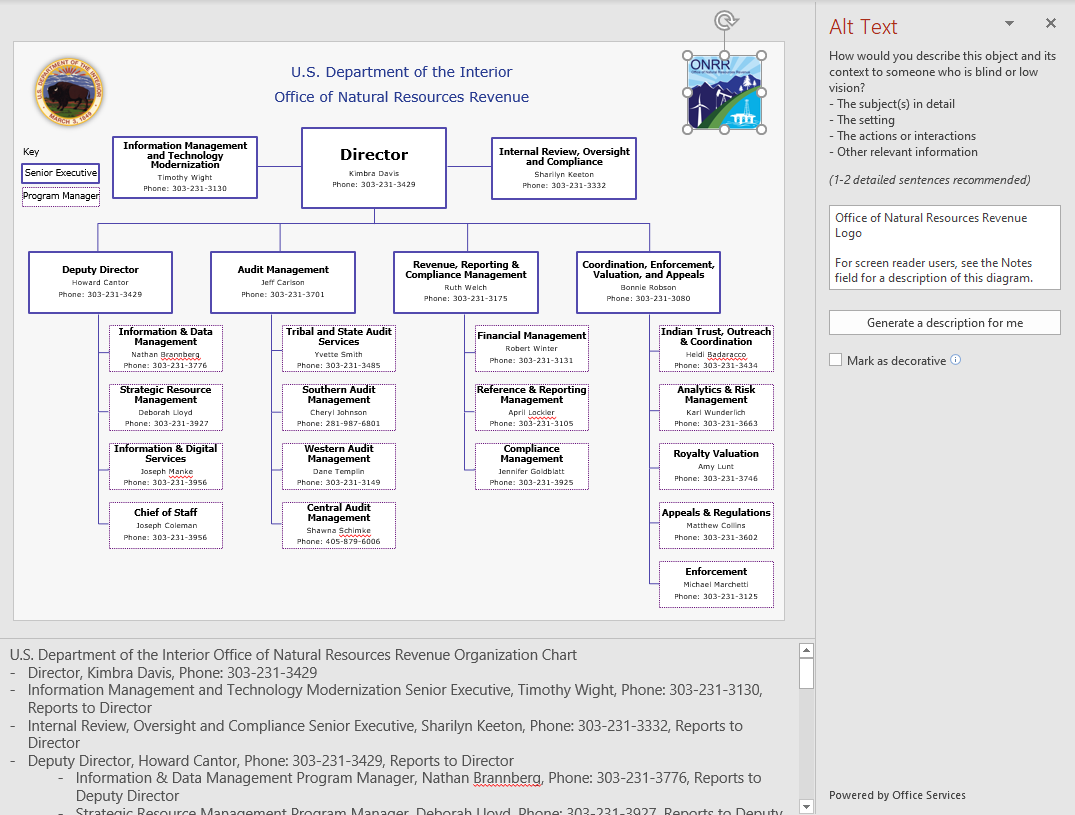
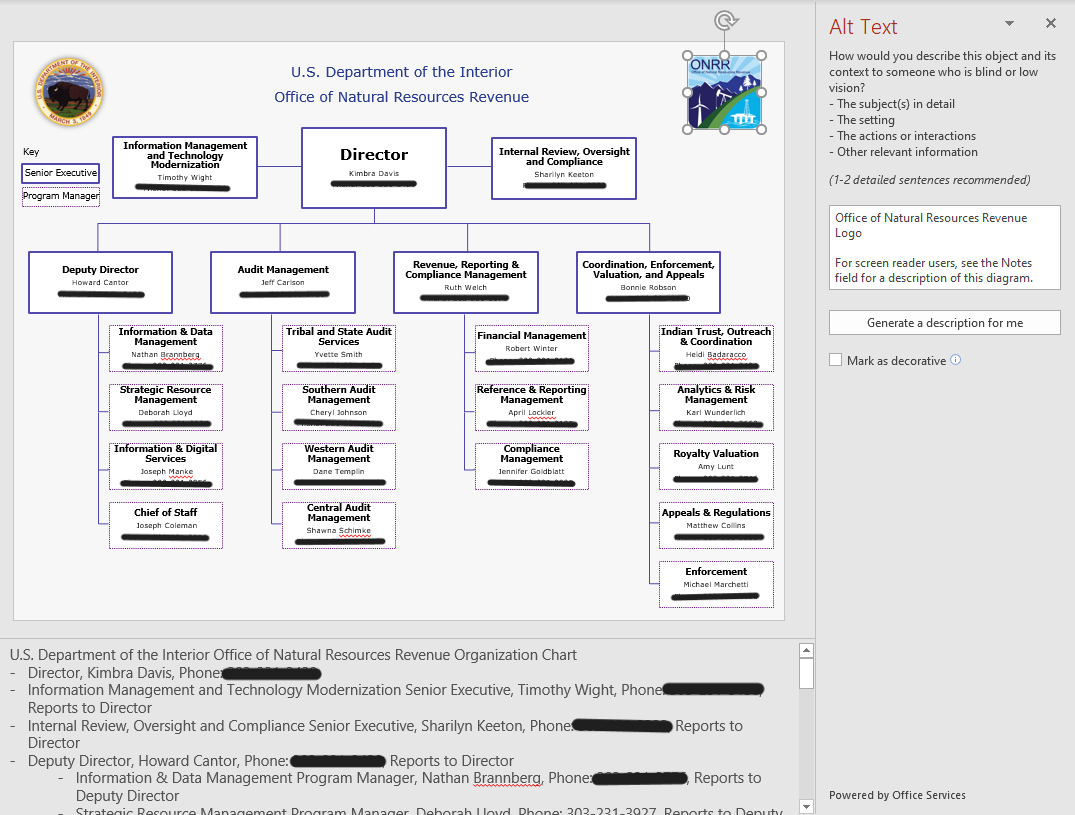
update beyond-auto

diff --git a/src/pages/beyond-auto/index.md b/src/pages/beyond-auto/index.md
@@ -29,8 +29,7 @@ Christina decided to fix the source document to ensure accessibility going forwa
 
 She reached out to me to discuss. We talked about the recommendation from the [accessibility stakeholder interviews](https://blog-nrrd.doi.gov/508-Study/) to use locked source docs instead of PDFs. We made this recommendation to avoid the extra errors that appear after converting to PDF. Since the source document was Visio, we decided to convert it to PowerPoint because few people have Visio installed on their machines.
 
-I converted the chart to PowerPoint, did some research on alt text for the lines connecting boxes, and what the proper format for phone numbers is. As a result, I marked all the lines as decorative and added a “reports to” line to the alt text for each box to describe the hierarchy. I also formatted the phone numbers with spaces between each digit in the alt text. Then I sent this [first version of the PowerPoint org chart (PPT)](./OrgChart_v1.pptx) to Sid, the Department of the Interior’s Section 508 Coordinator, to review and test with his screen reader.
-
+I converted the chart to PowerPoint, did some research on alt text for the lines connecting boxes, and what the proper format for phone numbers is. As a result, I marked all the lines as decorative and added a “reports to” line to the alt text for each box to describe the hierarchy. I also formatted the phone numbers with spaces between each digit in the alt text. Then I sent a first version of the PowerPoint org chart to Sid, the Department of the Interior’s Section 508 Coordinator, to review and test with his screen reader.
 
 **Image: PowerPoint org chart with alt text on the boxes**
 ![Screenshot of PowerPoint file highlighting a text box with this text: "Revenue, Reporting & Compliance Management, Ruth Welch, Phone: 303-231-3175." Also show alt text, which says: "Revenue, Reporting & Compliance Management Senior Executive, Ruth Welch, Phone: 3 0 3 2 3 1 3 1 7 5, Reports to Director"](./OrgChart_V1_AltText.png)
@@ -39,7 +38,7 @@ Sid called me up and shared his screen to show what the screen reader reads. It 
 
 Sid gave me two options for making the organization chart accessible. The first option was to keep the chart in PowerPoint and put in some alt text at the beginning of the document telling screen reader users to find the alt text in the notes field. The second option would be to export to PDF and describe the entire diagram as a single image. We opted for the first option.
 
-To create the [final version of the org chart (PPT)](./ONRR_External_Org_Chart.pptx) using the first option, I added alt text to the logo that appears at the top of the page indicating that screen reader users should jump to the notes field. Then I described the structure of the diagram in detail within the notes field.
+To create the final version of the org chart (PPT) using the first option, I added alt text to the logo that appears at the top of the page indicating that screen reader users should jump to the notes field. Then I described the structure of the diagram in detail within the notes field.
 
 **Image: PowerPoint org chart with alt text indicating to jump to the notes field for detailed alt text.**
 ![Screenshot of final PowerPoint file. ONRR logo is highlighted and shows alt text that says: "Office of Natural Resources Revenue Logo, For screen reader users, see the Notes field for a description of this diagram." Also shows the notes field at the bottom of the screen. See article copy for the full text of the notes field.](./OrgChart_Final.png)
@@ -51,36 +50,36 @@ Here is the language I used for the alt text at the top of the page:
 Here is the alt text I put into the notes field:
 
 “U.S. Department of the Interior Office of Natural Resources Revenue Organization Chart
-*	Director, Kimbra Davis, Phone: 303-231-3429
-* Information Management and Technology Modernization Senior Executive, Timothy Wight, Phone: 303-231-3130, Reports to Director
-* Internal Review, Oversight and Compliance Senior Executive, Sharilyn Keeton, Phone: 303-231-3332, Reports to Director
+*	Director, Kimbra Davis, 
+* Information Management and Technology Modernization Senior Executive, Timothy Wight, Reports to Director
+* Internal Review, Oversight and Compliance Senior Executive, Sharilyn Keeton, Reports to Director
 * Deputy Director, Howard Cantor, Phone: 303-231-3429, Reports to Director
 
-  * Information & Data Management Program Manager, Nathan Brannberg, Phone: 303-231-3776, Reports to Deputy Director
-  * Strategic Resource Management Program Manager, Deborah Lloyd, Phone: 303-231-3927, Reports to Deputy Director
-  * Information & Digital Services Program Manager, Joseph Manke, Phone: 303-231-3956, Reports to Deputy Director
-  * Chief of Staff, Joseph Coleman, Phone: 303-231-3956, Reports to Deputy Director
+  * Information & Data Management Program Manager, Nathan Brannberg, Reports to Deputy Director
+  * Strategic Resource Management Program Manager, Deborah Lloyd, Reports to Deputy Director
+  * Information & Digital Services Program Manager, Joseph Manke, Reports to Deputy Director
+  * Chief of Staff, Joseph Coleman, Reports to Deputy Director
 
-* Audit Management Senior Executive, Jeff Carlson, Phone: 303-231-3701, Reports to Director
+* Audit Management Senior Executive, Jeff Carlson, Reports to Director
 
-  * Tribal and State Audit Services Program Manager, Yvette Smith, Phone: 303-231-3485, Reports to Audit Management Senior Executive
-  * Southern Audit Management Program Manager, Cheryl Johnson, Phone: 281-987-6801, Reports to Audit Management Senior Executive
-  * Western Audit Management Program Manager, Dane Templin, Phone: 303-231-3149, Reports to Audit Management Senior Executive
-  * Central Audit Management Program Manager, Shawna Schimke, Phone: 405-879-6006, Reports to Audit Management Senior Executive
+  * Tribal and State Audit Services Program Manager, Yvette Smith, Reports to Audit Management Senior Executive
+  * Southern Audit Management Program Manager, Cheryl Johnson, Reports to Audit Management Senior Executive
+  * Western Audit Management Program Manager, Dane Templin, Reports to Audit Management Senior Executive
+  * Central Audit Management Program Manager, Shawna Schimke, Reports to Audit Management Senior Executive
 
-* Revenue, Reporting & Compliance Management Senior Executive, Ruth Welch, Phone: 303-231-3175, Reports to Director
+* Revenue, Reporting & Compliance Management Senior Executive, Ruth Welch, Reports to Director
 
-  * Financial Management Program Manager, Robert Winter, Phone: 303-231-3131, Reports to Revenue, Reporting & Compliance Management Senior Executive
-  * Reference & Reporting Management Program Manager, April Lockler, Phone: 303-231-3105, Reports to Revenue, Reporting & Compliance Management Senior Executive
-  * Compliance Management Program Manager, Jennifer Goldblatt, Phone: 303-231-3925, Reports to Revenue, Reporting & Compliance Management Senior Executive
+  * Financial Management Program Manager, Robert Winter, Reports to Revenue, Reporting & Compliance Management Senior Executive
+  * Reference & Reporting Management Program Manager, April Lockler, Reports to Revenue, Reporting & Compliance Management Senior Executive
+  * Compliance Management Program Manager, Jennifer Goldblatt, Reports to Revenue, Reporting & Compliance Management Senior Executive
 
-* Coordination, Enforcement, Valuation, and Appeals Senior Executive, Bonnie Robson, Phone: 303-231-3080, Reports to Director
+* Coordination, Enforcement, Valuation, and Appeals Senior Executive, Bonnie Robson, Reports to Director
 
-  * Indian Trust, Outreach  & Coordination Program Manager, Heidi Badaracco, Phone: 303-231-3434, Reports to Coordination, Enforcement, Valuation, and Appeals Senior Executive
-  * Analytics & Risk Management Program Manager, Karl Wunderlich, Phone: 303-231-3663, Reports to Coordination, Enforcement, Valuation, and Appeals Senior Executive
-  * Royalty Valuation Program Manager, Amy Lunt, Phone: 303-231-3746, Reports to Coordination, Enforcement, Valuation, and Appeals Senior Executive
-  * Appeals & Regulations Program Manager, Matthew Collins, Phone: 303-231-3602, Reports to Coordination, Enforcement, Valuation, and Appeals Senior Executive
-  * Enforcement Program Manager, Michael Marchetti, Phone: 303-231-3125, Reports to Coordination, Enforcement, Valuation, and Appeals Senior Executive”
+  * Indian Trust, Outreach  & Coordination Program Manager, Reports to Coordination, Enforcement, Valuation, and Appeals Senior Executive
+  * Analytics & Risk Management Program Manager, Reports to Coordination, Enforcement, Valuation, and Appeals Senior Executive
+  * Royalty Valuation Program Manager, Amy Lunt, Reports to Coordination, Enforcement, Valuation, and Appeals Senior Executive
+  * Appeals & Regulations Program Manager, Matthew Collins, Reports to Coordination, Enforcement, Valuation, and Appeals Senior Executive
+  * Enforcement Program Manager, Michael Marchetti, Reports to Coordination, Enforcement, Valuation, and Appeals Senior Executive”
 
 ## Why this works
 Creating alt text for the organization chart and providing a detailed text description of the chart in the notes pane is a great strategy for ensuring the content is accessible to screen reader users. As the chart becomes more complicated, alt text for individual portions of the graphic may no longer provide useful information. In most situations, one alt text for the entire graphic may be the best solution.
